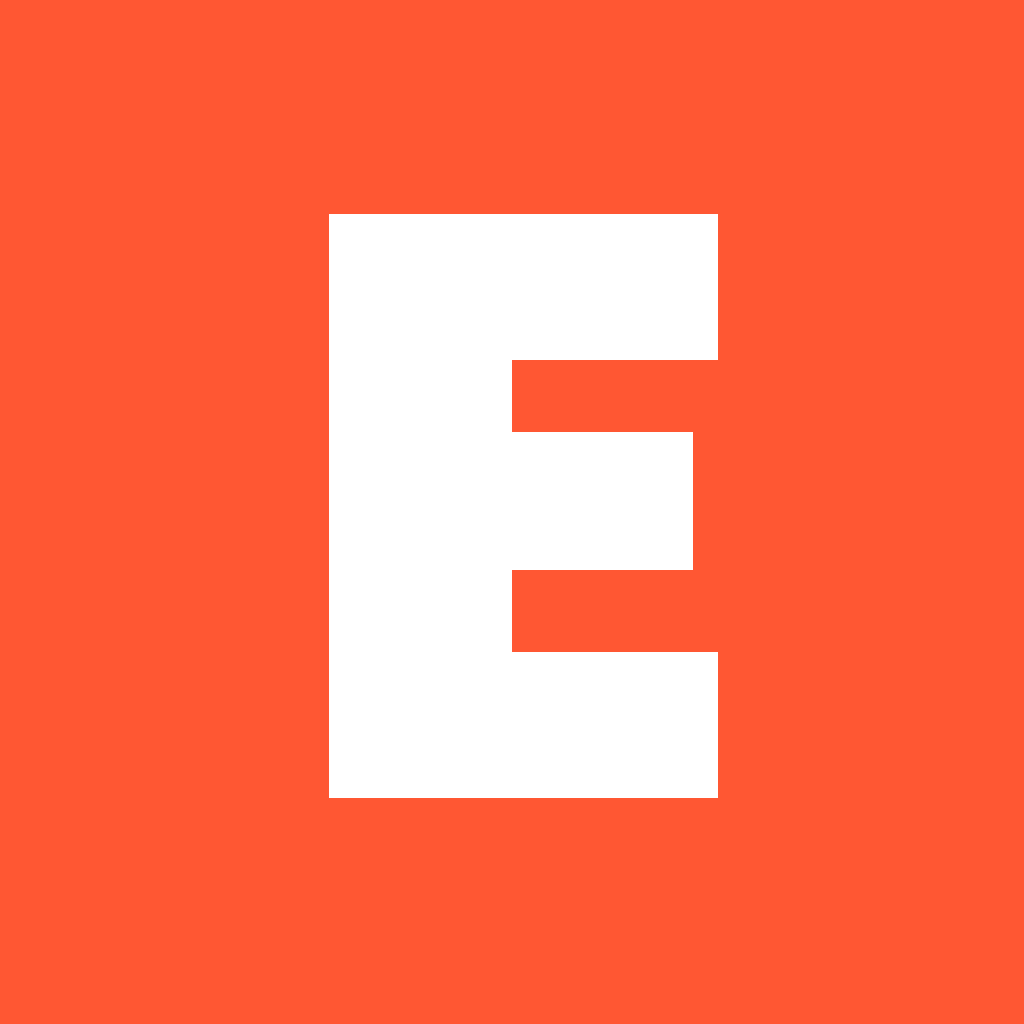
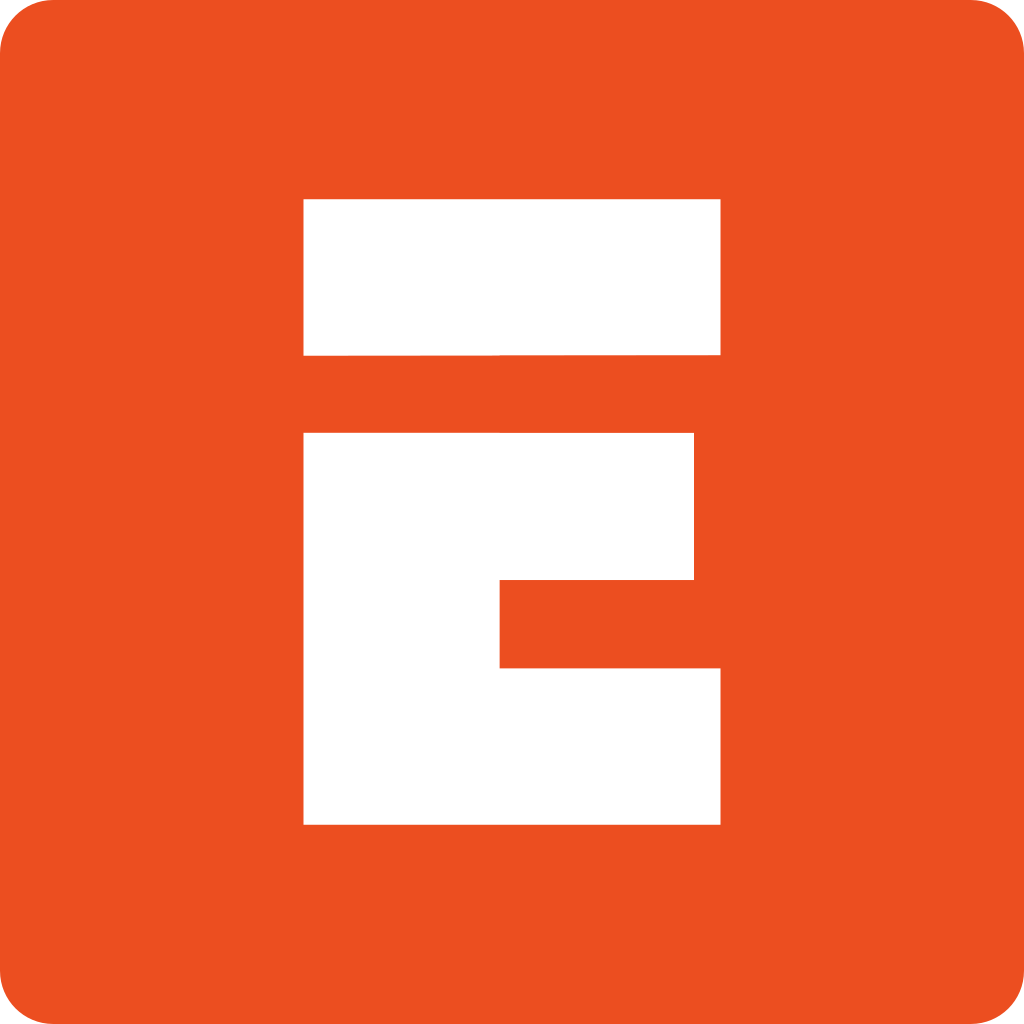
replace images

diff --git a/src/styles/_variables.scss b/src/styles/_variables.scss
@@ -1,6 +1,6 @@
 $color-main-dark: #322e2f;
 $color-main-light: #fff;
-$color-main-contrast: #FF5733;
+$color-main-contrast: #ec4e20;
 $color-main-contrast2: #F6F9FB;
 $color-main-borders: darken($color-main-light, 8%);
 
